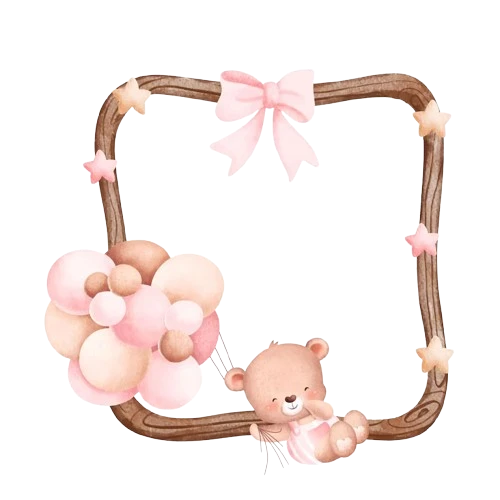
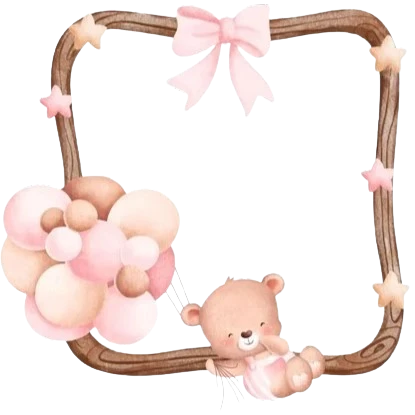
Update modified files

diff --git a/src/app/modules/marco/marco.component.html b/src/app/modules/marco/marco.component.html
@@ -1,8 +1,8 @@
 <section class="container">
   <header>
     <img
-      src="../../../assets/img/protagonista/anto1.jpeg"
-      alt="antonella"
+      src="../../../assets/img/protagonista/protagonista.webp"
+      alt="Daniela"
       class="protagonista"
     />
     <img
@@ -14,34 +14,34 @@
 
   <main>
     <h2 #titulo>
-      <span>Protagonista</span><br />
-      Nuestra hermosa <strong>Sirenita</strong>
+      <span>Daniela</span><br />
+      Nuestra hermosa <strong>Osita</strong>
     </h2>
     <img
       src="../../../assets/img/principal/principal1.webp"
       alt=""
-      class="princiapl"
+      class="principal"
     />
 
     <div class="datosInfo">
       <img
-        src="../../../assets/img/personaje4/gratis-png-caballo-de-mar2.png"
-        alt="caballito2"
-        class="caballito2"
+        src="../../../assets/img/personaje4/personaje4-2.webp"
+        alt="personaje4-2"
+        class="personaje4-2"
       />
       <address>
         <p>Acompañanos a Celebrar:</p>
-        <strong>Alfonso López 2</strong>
-        <span>Cra. 7e bis # 73 - 68</span>
-        <strong>5 abril a las 3:30pm</strong>
+        <strong>Villa Fátima</strong>
+        <span>Cra. 119 # 60 - 144</span>
+        <strong>04 Mayo a las 3:30pm</strong>
       </address>
     </div>
   </main>
 
   <footer>
     <img
-      *ngFor="let i of [1, 2, 3, 4, 5].reverse()"
-      [src]="'../../../assets/img/fondo/decoracion' + i + '.png'"
+      *ngFor="let i of [1, 2, 3, 1, 2, 3, 1, 2, 3].reverse()"
+      [src]="'../../../assets/img/fondo/decoracion' + i + '.webp'"
       alt="decoracion"
     />
   </footer>

diff --git a/src/app/modules/marco/marco.component.css b/src/app/modules/marco/marco.component.css
@@ -9,15 +9,14 @@ section.container {
 
 header .protagonista {
   position: absolute;
-  max-width: 250px;
-  max-height: 260px;
-  min-width: 220px;
-  width: 50vw;
+  width: 320px;
   object-fit: cover;
-  top: 10px;
-  left: 0;
-  right: 100px;
+  top: 20px;
+  left: 30px;
+  right: 0;
   animation: opacity 2s linear both 1s;
+  margin: 0 auto;
+  border-radius: 40px;
 }
 
 @media (max-width: 365px) {
@@ -40,14 +39,13 @@ header .marco {
   top: 0;
   left: 0;
   right: 0;
-  margin-right: auto;
+  margin: 0 auto;
   width: 100%;
   max-width: 400px;
-  height: auto;
-  object-fit: contain;
   border-radius: 20px;
   animation: to-down 1s linear both;
   z-index: 5;
+  aspect-ratio: 4 / 3;
 }
 
 @keyframes to-down {
@@ -128,7 +126,7 @@ main .datosInfo {
 }
 
 main .datosInfo address {
-  font-size: 1.88em;
+  font-size: clamp(3em, 5vw, 6em);
   display: flex;
   flex-direction: column;
   line-height: 1.5em;
@@ -172,7 +170,7 @@ main .datosInfo address p {
     margin: 0;
   }
 
-  main .caballito2 {
+  main .personaje4-2 {
     position: absolute;
     bottom: 20px;
     right: -15vw;
@@ -188,7 +186,7 @@ main .datosInfo address span {
   margin-right: 10px;
 }
 
-main .caballito2 {
+main .personaje4-2 {
   width: 200px;
   height: 200px;
   animation: to-scape 1s linear both 6.5s;
@@ -203,9 +201,4 @@ main .caballito2 {
     position: absolute;
     transform: translateY(-100svh);
   }
-}
-
-footer {
-  bottom: 0;
-  animation: none;
 }

diff --git a/src/styles.css b/src/styles.css
@@ -33,18 +33,15 @@ span {
   font-family: "Lobster", sans-serif;
   font-weight: 400;
   font-style: italic;
-  text-shadow: -3px -3px 0 var(--color-secondary),
-    3px -3px 0 var(--color-secondary), -3px 3px 0 var(--color-secondary),
-    3px 3px 0 var(--color-secondary);
+  -webkit-text-stroke: 0.5px var(--color-secondary); /* Grosor y color del borde */
   font-weight: bold;
 }
 
 strong {
   font-size: 1.5em;
-  text-shadow: -2px -2px 0 #fff, 2px -2px 0 #fff, -2px 2px 0 #fff,
-    2px 2px 0 #fff;
+  -webkit-text-stroke: 0.5px white; /* Grosor y color del borde */
   color: var(--color-secondary);
-  font-weight: bolder;
+  font-weight: 500;
 }
 
 footer {

diff --git a/src/app/modules/splash/splash.component.html b/src/app/modules/splash/splash.component.html
@@ -1,8 +1,8 @@
 <section class="container">
   <img src="../../../assets/img/principal/principal3.webp" alt="principal3" />
   <h3>
-    Tienes una <strong>Invitación</strong> de la fábrica de
-    <span>Bebés</span>
+    Tienes una <strong>Invitación</strong> de la Casita de
+    <span>Peluches</span>
   </h3>
   <a routerLink="/inicio">Abrir Invitación</a>
 </section>

diff --git a/src/app/modules/marco/marco.component.ts b/src/app/modules/marco/marco.component.ts
@@ -17,7 +17,7 @@ export class MarcoComponent {
       this.titulo.nativeElement.style.animation = 'none';
       setTimeout(() => (this.titulo.nativeElement.style.opacity = 0), 2000);
 
-      setTimeout(() => this.route.navigate(['confirmacion']), 10000);
+      // setTimeout(() => this.route.navigate(['confirmacion']), 10000);
     }, 3000);
   }
 }

diff --git a/src/app/modules/inicio/inicio.component.ts b/src/app/modules/inicio/inicio.component.ts
@@ -13,6 +13,6 @@ export class InicioComponent implements OnInit {
   ngOnInit(): void {
     if (!this.publicService.isPlaying()) this.publicService.playAudio();
 
-    // setTimeout(() => this.route.navigate(['marco']), 8000);
+    setTimeout(() => this.route.navigate(['marco']), 8000);
   }
 }

diff --git a/src/app/modules/splash/splash.component.css b/src/app/modules/splash/splash.component.css
@@ -45,6 +45,7 @@ section h3 span {
 
 section a {
   background-color: #fff;
+  color: #ed3a7d;
   color: var(--color-primary);
   padding: 0.5rem 1rem;
   border-radius: 1rem;

diff --git a/src/index.html b/src/index.html
@@ -1,5 +1,5 @@
 <!DOCTYPE html>
-<html lang="en">
+<html lang="es">
   <head>
     <meta charset="utf-8" />
     <title>InvitacionBabyShowerOsos</title>
